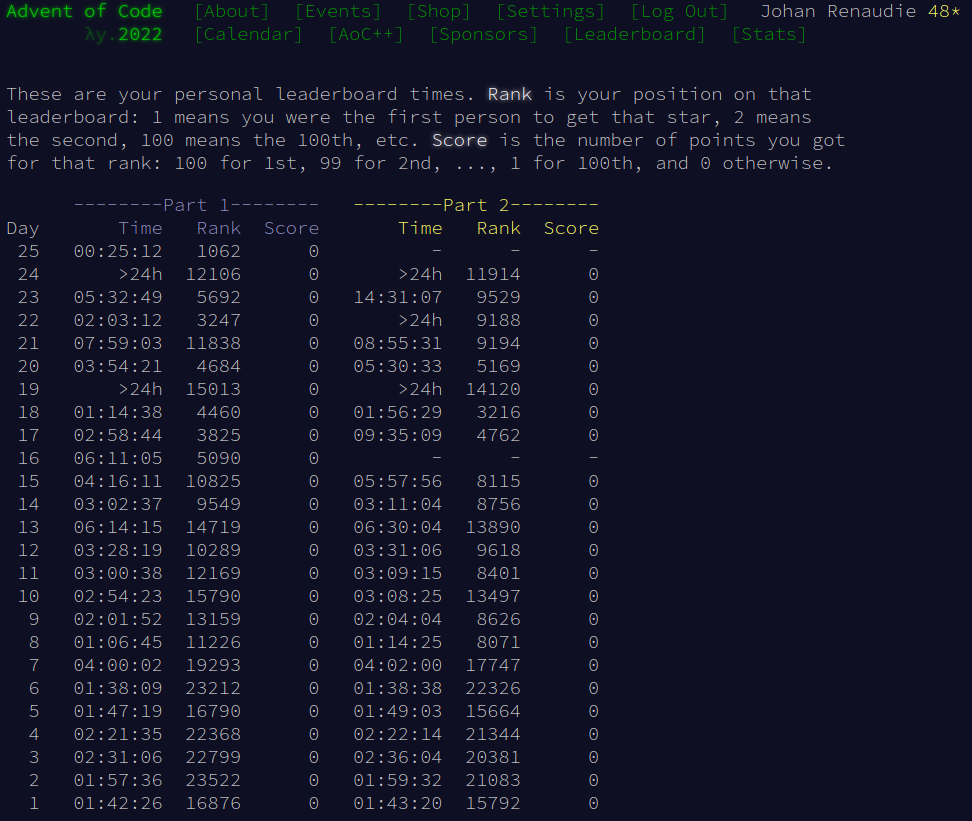
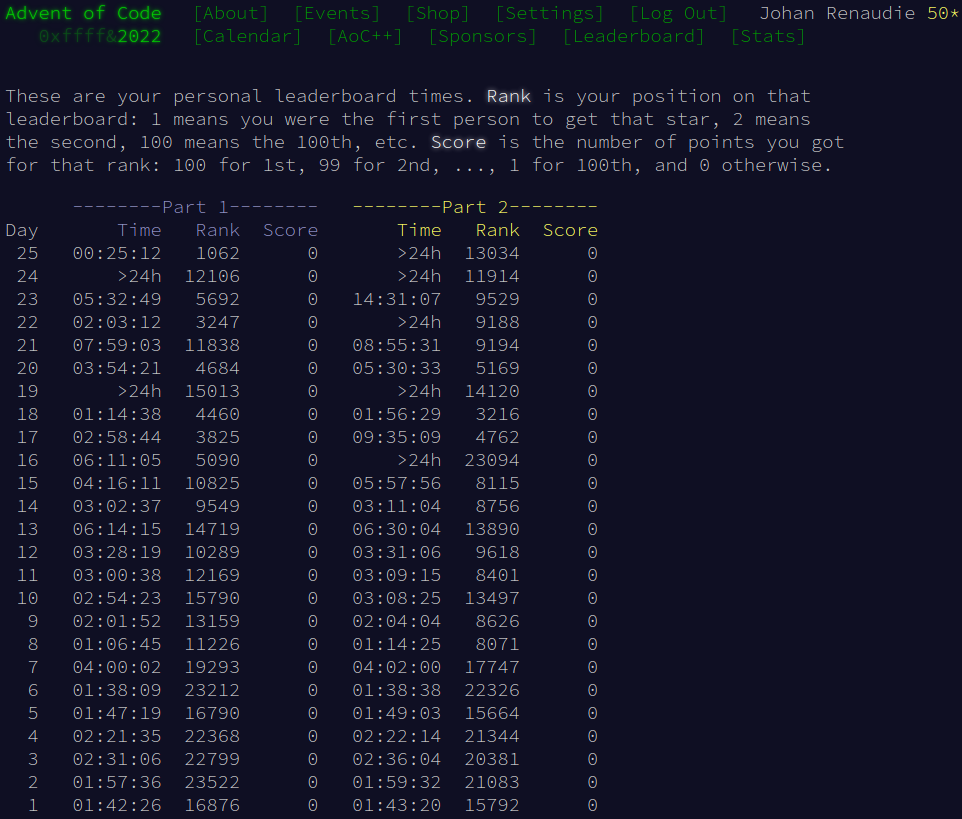
finally figured out day 16 of 2022!

diff --git a/2022/README.md b/2022/README.md
@@ -4,6 +4,8 @@ https://adventofcode.com/2022
 
 ![](screenshot.png)
 
+![](screenshot2.png)
+
 ## Visualizations
 
 ### Day 7: No Space Left On Device
